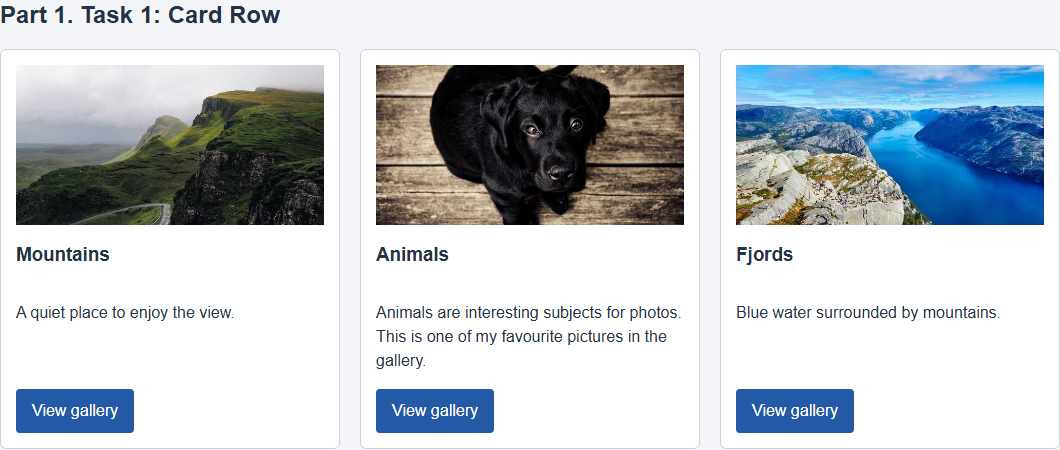
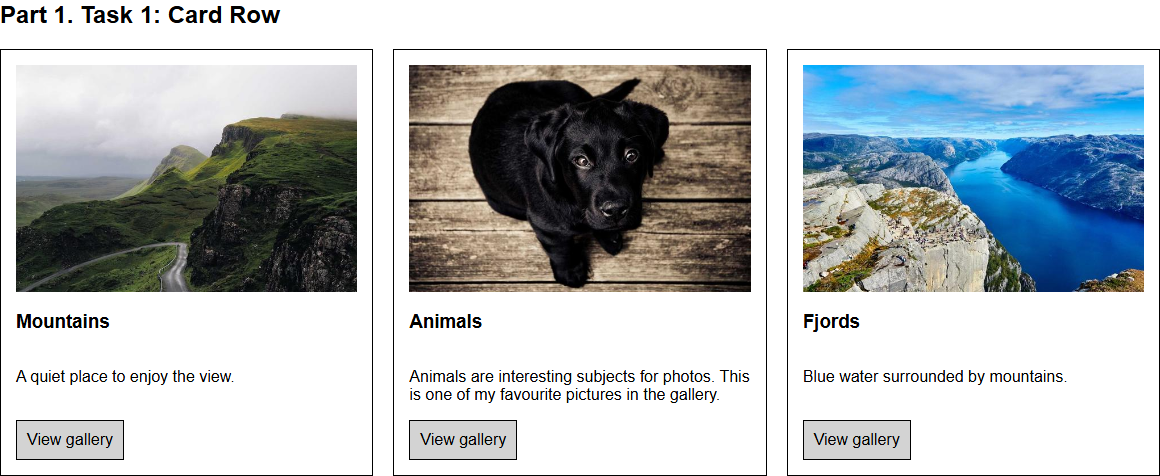
Simplify assignment2 styling to match lecture topics

diff --git a/assignment2/style.css b/assignment2/style.css
@@ -5,24 +5,17 @@
 
 body {
     margin: 0;
-    font-family: Arial, sans-serif;
-    line-height: 1.5;
-    color: #243247;
-    background: #f3f5f8;
+    font-family: Arial;
+    color: black;
+    background: white;
 }
 
 a {
-    color: #2359a5;
-}
-
-h1, h2, h3 {
-    line-height: 1.2;
+    color: blue;
 }
 
 .container {
-    max-width: 1100px;
-    margin: 30px auto;
-    padding: 0 20px;
+    margin: 20px;
 }
 
 section {
@@ -32,29 +25,21 @@ section {
 /* Task 0: horizontal and vertically centred navigation */
 .navbar {
     display: flex;
+    flex-wrap: wrap;
     justify-content: space-between;
     align-items: center;
     gap: 20px;
     padding: 20px;
-    background: #243247;
-}
-
-.navbar a {
-    color: white;
-    text-decoration: none;
-}
-
-.navbar a:hover {
-    text-decoration: underline;
+    background: lightgray;
 }
 
 .logo {
     font-size: 24px;
-    font-weight: bold;
 }
 
 .nav-links {
     display: flex;
+    flex-wrap: wrap;
     gap: 20px;
     padding: 0;
     margin: 0;
@@ -64,54 +49,47 @@ section {
 /* Task 1: stretch makes the cards equally tall */
 .card-row {
     display: flex;
+    flex-wrap: wrap;
     align-items: stretch;
     gap: 20px;
 }
 
 .card {
-    flex: 1;
-    min-width: 0;
+    flex-grow: 1;
+    flex-basis: 250px;
     display: flex;
     flex-direction: column;
     padding: 15px;
     background: white;
-    border: 1px solid #ccd3dd;
-    border-radius: 6px;
+    border: 1px solid black;
 }
 
 .card:hover {
-    box-shadow: 0 4px 12px #00000026;
+    background: lightgray;
 }
 
 .card img {
     width: 100%;
-    height: 160px;
-    object-fit: cover;
 }
 
-/* Push buttons to the bottom of cards. */
-.card form, .project-card form {
-    margin-top: auto;
+/* Let the text grow to keep buttons at the bottom. */
+.card p {
+    flex-grow: 1;
 }
 
 button {
-    padding: 10px 16px;
-    border: 0;
-    border-radius: 4px;
-    background: #2359a5;
-    color: white;
-    font: inherit;
-    cursor: pointer;
-}
-
-button:hover {
-    background: #173d73;
+    padding: 10px;
+    border: 1px solid black;
+    background: lightgray;
+    color: black;
+    font-family: Arial;
+    font-size: 16px;
 }
 
 /* Task 2: four named areas */
 .page-grid {
     display: grid;
-    grid-template-columns: 220px 1fr;
+    grid-template-columns: 1fr 2fr;
     grid-template-rows: auto 1fr auto;
     grid-template-areas:
         "header header"
@@ -123,13 +101,13 @@ button:hover {
 .grid-header {
     grid-area: header;
     padding: 20px;
-    background: #d2e3fa;
+    background: lightgray;
 }
 
 .grid-sidebar {
     grid-area: sidebar;
     padding: 20px;
-    background: #e0e6ee;
+    background: lightgray;
 }
 
 .grid-sidebar a {
@@ -146,7 +124,7 @@ button:hover {
 .grid-footer {
     grid-area: footer;
     padding: 20px;
-    background: #d2e3fa;
+    background: lightgray;
     text-align: center;
 }
 
@@ -154,35 +132,32 @@ button:hover {
 .gallery {
     display: grid;
     grid-template-columns: repeat(3, 1fr);
-    grid-auto-rows: 180px;
+    grid-template-rows: repeat(3, 1fr);
     gap: 15px;
 }
 
-.gallery figure {
+.photo {
     position: relative;
     margin: 0;
-    overflow: hidden;
 }
 
 .gallery img {
+    display: block;
     width: 100%;
-    height: 100%;
-    object-fit: cover;
 }
 
-.gallery figcaption {
+.caption {
+    display: none;
     position: absolute;
     bottom: 0;
-    width: 100%;
-    padding: 10px;
-    background: #000000b3;
-    color: white;
-    opacity: 0;
+    margin: 0;
+    padding: 5px;
+    background: white;
+    color: black;
 }
 
-.gallery figure:hover figcaption,
-.gallery figure:focus figcaption {
-    opacity: 1;
+.photo:hover .caption {
+    display: block;
 }
 
 /* Task 4: Grid outside, Flexbox inside the project cards */
@@ -200,8 +175,7 @@ button:hover {
     margin-bottom: 20px;
     padding: 20px;
     background: white;
-    border: 1px solid #ccd3dd;
-    border-radius: 6px;
+    border: 1px solid black;
 }
 
 .project-card h2, .project-card p {
@@ -210,38 +184,12 @@ button:hover {
 
 .about {
     padding: 20px;
-    background: #e0e6ee;
+    background: lightgray;
 }
 
 .site-footer {
     padding: 20px;
-    background: #243247;
-    color: white;
+    background: lightgray;
+    color: black;
     text-align: center;
-}
-
-/* Stack the layouts on small screens. */
-@media (max-width: 700px) {
-    .navbar, .card-row {
-        flex-direction: column;
-    }
-
-    .nav-links {
-        flex-wrap: wrap;
-        justify-content: center;
-        gap: 15px;
-    }
-
-    .page-grid {
-        grid-template-columns: 1fr;
-        grid-template-areas: "header" "sidebar" "main" "footer";
-    }
-
-    .gallery {
-        grid-template-columns: repeat(2, 1fr);
-    }
-
-    .portfolio-grid {
-        grid-template-columns: 1fr;
-    }
 }

diff --git a/assignment2/index.html b/assignment2/index.html
@@ -71,17 +71,17 @@
         <!-- Task 3: nine images in a grid -->
         <section id="gallery">
             <h2>Part 2. Task 3: Image Gallery</h2>
-            <p>Hover over a photo or use the Tab key to see its caption.</p>
+            <p>Hover over a photo to see its caption.</p>
             <div class="gallery">
-                <figure tabindex="0"><img src="images/photo1.jpg" alt="Mountain landscape"><figcaption>Mountains</figcaption></figure>
-                <figure tabindex="0"><img src="images/photo2.jpg" alt="A black dog on a wooden floor"><figcaption>A black dog</figcaption></figure>
-                <figure tabindex="0"><img src="images/photo3.jpg" alt="Blue water between rocky cliffs"><figcaption>Fjord</figcaption></figure>
-                <figure tabindex="0"><img src="images/photo4.jpg" alt="A lighthouse under a blue sky"><figcaption>Lighthouse</figcaption></figure>
-                <figure tabindex="0"><img src="images/photo5.jpg" alt="A river through a forest"><figcaption>Forest river</figcaption></figure>
-                <figure tabindex="0"><img src="images/photo6.jpg" alt="A pug wrapped in a blanket"><figcaption>Pug</figcaption></figure>
-                <figure tabindex="0"><img src="images/photo7.jpg" alt="Red rocky hills at sunset"><figcaption>Rocky hills</figcaption></figure>
-                <figure tabindex="0"><img src="images/photo8.jpg" alt="Looking up at a glass building"><figcaption>City building</figcaption></figure>
-                <figure tabindex="0"><img src="images/photo9.jpg" alt="A snowy mountain landscape"><figcaption>Snowy mountains</figcaption></figure>
+                <div class="photo"><img src="images/photo1.jpg" alt="Mountain landscape"><p class="caption">Mountains</p></div>
+                <div class="photo"><img src="images/photo2.jpg" alt="A black dog on a wooden floor"><p class="caption">A black dog</p></div>
+                <div class="photo"><img src="images/photo3.jpg" alt="Blue water between rocky cliffs"><p class="caption">Fjord</p></div>
+                <div class="photo"><img src="images/photo4.jpg" alt="A lighthouse under a blue sky"><p class="caption">Lighthouse</p></div>
+                <div class="photo"><img src="images/photo5.jpg" alt="A river through a forest"><p class="caption">Forest river</p></div>
+                <div class="photo"><img src="images/photo6.jpg" alt="A pug wrapped in a blanket"><p class="caption">Pug</p></div>
+                <div class="photo"><img src="images/photo7.jpg" alt="Red rocky hills at sunset"><p class="caption">Rocky hills</p></div>
+                <div class="photo"><img src="images/photo8.jpg" alt="Looking up at a glass building"><p class="caption">City building</p></div>
+                <div class="photo"><img src="images/photo9.jpg" alt="A snowy mountain landscape"><p class="caption">Snowy mountains</p></div>
             </div>
         </section>
         <p><a href="portfolio.html">Part 3. Task 4: Open my portfolio page</a></p>

diff --git a/assignment2/README.md b/assignment2/README.md
@@ -19,7 +19,7 @@ The header uses `display: flex`. `justify-content: space-between` places the log
 
 ### Task 1. Card Row
 
-Three cards contain an image, title, text, and button. The row uses Flexbox, `gap: 20px`, and `align-items: stretch` for equal heights. Each card uses a column direction. `margin-top: auto` pushes the button to the bottom. Hovering adds a shadow. The buttons open the gallery.
+Three cards contain an image, title, text, and button. The row uses Flexbox, `gap: 20px`, and `align-items: stretch` for equal heights. Each card uses a column direction. `flex-grow: 1` lets the text fill the remaining space to keep buttons at the bottom. Hovering changes the background to light gray. The buttons open the gallery.
 
 ![Task 1: three equal-height cards](screenshots/task1-cards.png)
 
@@ -33,7 +33,7 @@ The layout uses two columns and three rows. `grid-template-areas` places the hea
 
 ### Task 3. Image Gallery
 
-Nine local images use three equal columns with `repeat(3, 1fr)`. Rows are 180px high, with a 15px gap. A caption appears on hover or keyboard focus. `object-fit: cover` keeps the images from stretching.
+Nine local images use three equal columns with `repeat(3, 1fr)`. Three equal rows use `repeat(3, 1fr)`, with a 15px gap. Images use `width: 100%` and keep their original proportions. A caption appears on hover using `display: none` and `display: block`.
 
 ![Task 3: gallery with a visible hover caption](screenshots/task3-gallery.png)
 
@@ -47,7 +47,16 @@ The portfolio header uses Flexbox. The main section uses Grid with `2fr 1fr` col
 
 ## Brief Summary of Work Process
 
-The HTML structure was created first, followed by the Flexbox navigation and cards. Next, named Grid areas and the photo gallery were added. The portfolio combines both layout methods. A media query stacks the main layouts and changes the gallery to two columns on screens up to 700px wide. Finally, the pages were checked in a browser and screenshots were saved for this report.
+The HTML structure was created first, followed by the Flexbox navigation and cards. Next, named Grid areas and the photo gallery were added. The portfolio combines both layout methods. Flexbox wrapping lets the navigation and cards fit smaller screens. Grid columns use fractions of the available width. Finally, the pages were checked in a browser and screenshots were saved for this report.
+
+## Lecture Topics Used
+
+- Week 1: headings, paragraphs, lists, links, images, forms, and buttons.
+- Week 2: an external stylesheet, class and descendant selectors, Arial, named colors, margins, padding, borders, and relative/absolute positioning.
+- Week 3: Flexbox direction, wrapping, alignment, growing and basis; Grid columns, rows, gaps, `fr`, `repeat()`, and grid areas.
+- The assignment also requires hover effects and named grid areas. The hover rules use a simple background change and a caption that appears.
+
+The design uses Arial, black text, white and light-gray backgrounds, plain borders, and blue links.
 
 ## Image Sources
 
